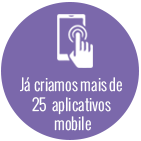
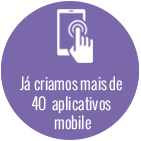
Página "Quem somos, ajuste de texto em Diferencias

diff --git a/quem-somos/index.html b/quem-somos/index.html
@@ -38,9 +38,9 @@ title: Quem Somos
 	    			<li>Implantamos ágil desde 2006</li>
 	    			<li>Somos uma das maiores desenvolvedoras de mobile commerce do Brasil</li>
 	    			<li>Somos o primeiro parceiro da AWS na América Latina</li>
-	    			<li>Já colocamos mais  de 50 clientes na nuvem desde 2009</li>
-	    			<li>Fomos responsáveis por mais de 50 projetos de  e-commerce para mais de 40 clientes</li>
-	    			<li>Já criamos mais de 25  aplicativos mobile</li>
+	    			<li>Já colocamos mais de 50 clientes na nuvem desde 2009</li>
+	    			<li>Fomos responsáveis por mais de 50 projetos de e-commerce para mais de 40 clientes</li>
+	    			<li>Já criamos mais de 40 aplicativos mobile</li>
 	    		</ul>
 		    	<div class="points">
 		    		<ul>

diff --git a/css/style.css b/css/style.css
@@ -24,7 +24,7 @@ hr { display:none; }
 :focus { outline:0; }
 /* tables still need 'cellspacing="0"' in the markup */
 table { border-collapse:collapse; border-spacing:0; }
-a {text-decoration:none; }
+a {text-decoration:none; outline: none!important; }
 *, *:before, *:after {
     -webkit-box-sizing: border-box;
        -moz-box-sizing: border-box;
